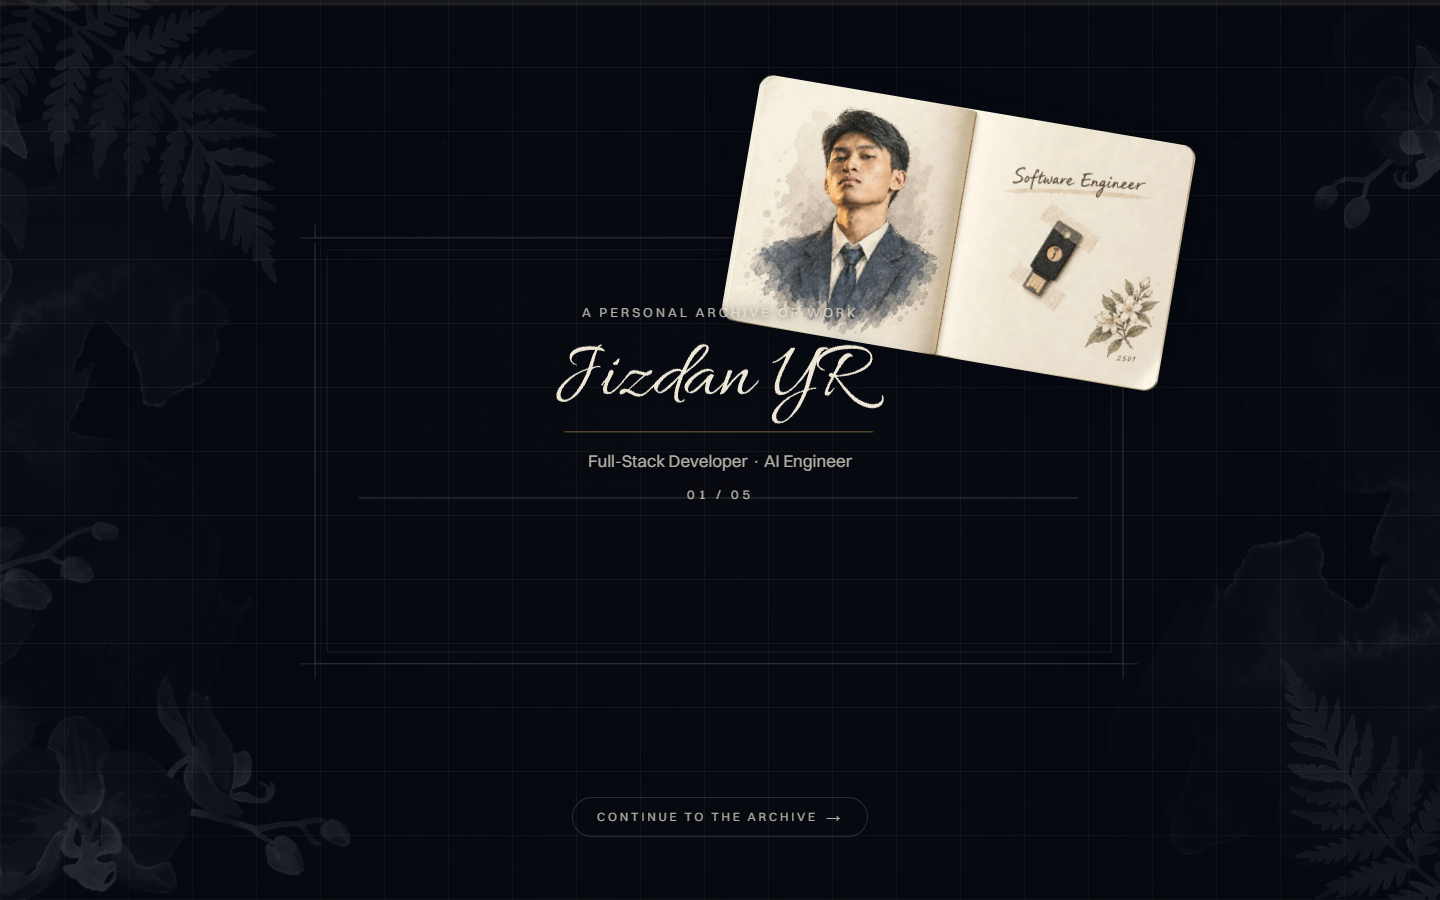
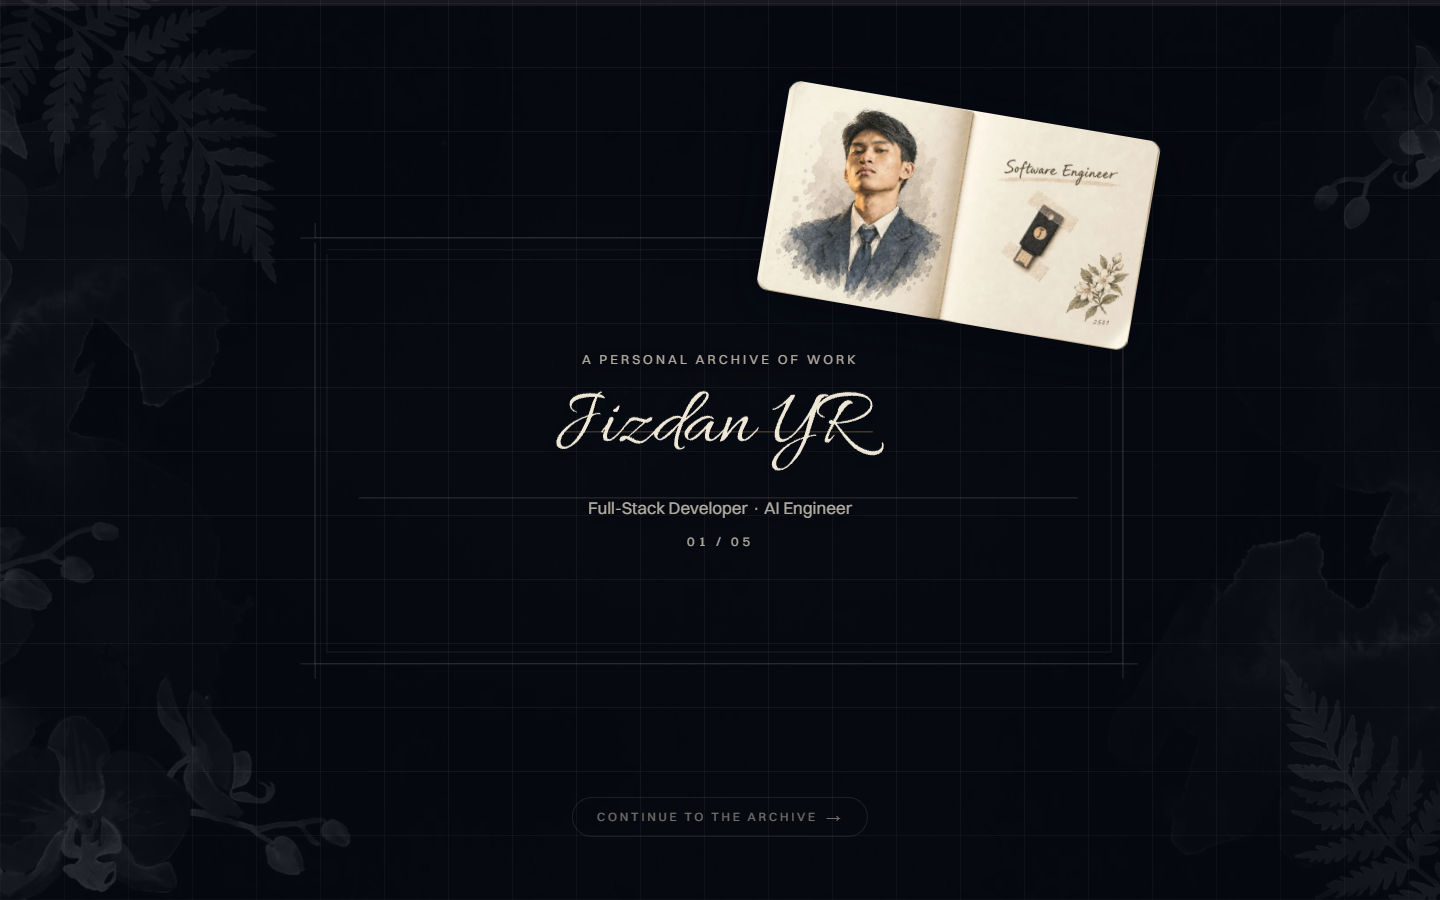
fix(intro): centre the identity block, shrink the sketchbook to clear it
The identity block was raised to sit vertically centred on the screen
(its middle on the stage's centre line), and the sketchbook above it
was shrunk so the centred block never touches it.

- Seat: .intro-stamp top moves from plate-w * .05 to * .10, so the
  block's middle lands on the centre line (its bottom sits 6px under a
  baseline at plate-w * .10 below centre). Measured: stamp cy = stage
  centre at every viewport (1440x900 → 450/450).
- Book: --pw (the plate box the spreads + drawing are measured in) drops
  from clamp(200px, 47%, 480px) to clamp(170px, 40%, 408px) — ~15%
  smaller, so the visible sketch bottom clears the centred kicker
  (~90-150px gap on desktop, ~80px on mobile). --plate-w is untouched,
  so the drawing, the rules and the seat formula are unaffected.
- --raise lifts from -24vh to -26vh so the smaller book also clears the
  block on short viewports (1280x800, 1024x768).

Harness: A8's live seat read was a single fixed sample at wall t0+3400,
which lands before the CSS raise settles under headless's ~700ms clock
lag — a flake, not a failure. It now polls for the settled seat, the
same deterministic form as A3/A4/A6. 44/44 pass (twice), build clean.

diff --git a/public/landing-pages/chin-portfolio.html b/public/landing-pages/chin-portfolio.html
@@ -1777,7 +1777,7 @@
         opacity: 0;
         will-change: transform, opacity;
       }
-      .intro-stage { --pw: clamp(200px, 47%, 480px); --spread: min(120px, 9vw); }
+      .intro-stage { --pw: clamp(170px, 40%, 408px); --spread: min(120px, 9vw); }
       .intro-plate img {
         width: 100%;
         height: 100%;
@@ -1809,7 +1809,7 @@
            SHRINKS on short laptops so the top edge never clips off-screen:
            the plate box is height-capped, so the book's own height does not
            shrink with the viewport and a fixed px raise would. */
-        --raise: clamp(-250px, -24vh, -150px);
+        --raise: clamp(-250px, -26vh, -150px);
         perspective: 1400px;      /* for the exit's rotateX; see the exit block */
       }
 
@@ -2136,19 +2136,19 @@
       /* ---- the stamp's seat -------------------------------------------------
          Declared HERE, after the identity block above, on purpose: these two
          override the v1 rules at equal specificity, so they must be later in
-         source. The stamp's BOTTOM sits 6px under a baseline that was moved
-         UP from the drawn baseline (viewBox y=590) to --plate-w * .05 — the
-         drawn .1797 seat sat too low and let the name collide with the role
-         line and the Continue button. Lifting it to .05 lifts the whole block
-         (kicker / name / role / index) ~13% of the plate box while keeping it
-         anchored under the raised portrait.
+         source. The stamp's BOTTOM sits 6px under the baseline, which is
+         --plate-w * .10 below the stage's centre line — i.e. the block is
+         vertically CENTRED on the screen (its middle lands on the centre line).
+         The book above it is shrunk via --pw and raised via --raise, so the
+         centred block clears the sketchbook's lower edge instead of touching
+         it (see the seat-measure notes in the entrance section).
 
          SEAT LOCKED: this is the identity's own position and does not move
          with the held portrait. The portrait is raised by cp-plate-raise
          alone (see .intro-stage), so the ONLY thing that travels up is the
          sketchbook. */
       .intro-stamp {
-        top: calc(50% + var(--plate-w) * .05 + 6px);
+        top: calc(50% + var(--plate-w) * .10 + 6px);
         transform: translateY(-100%);
       }
 
